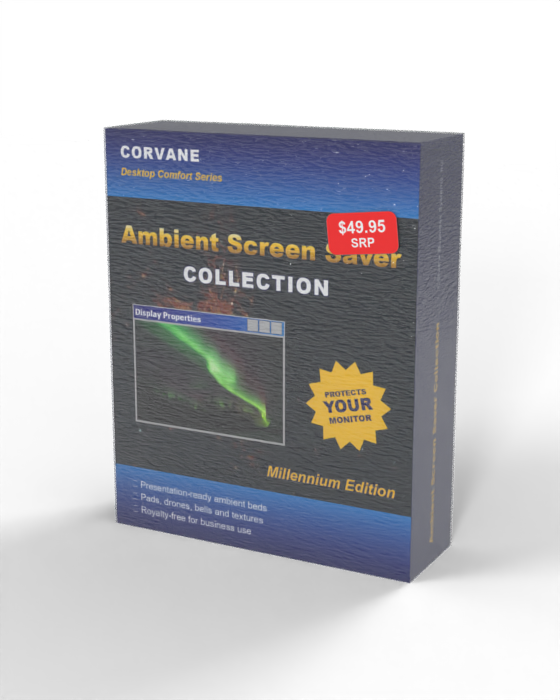
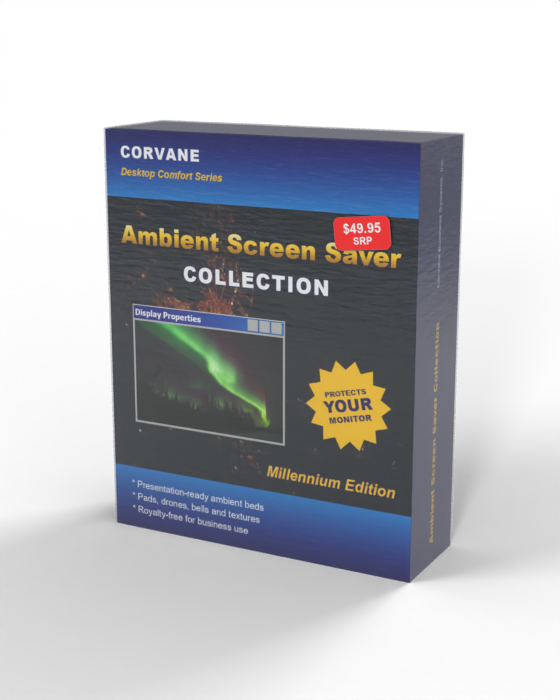
Sound packs: box and disc renders for all 18 packs; sticker in the shop's corner, renders cropped
Blender runs capped (-t 4, BLENDER_THREADS), --render-only and PACK_ONLY=box|disc|post for partial passes.

diff --git a/packages/basilisk-synth/library/packs/make_packs.py b/packages/basilisk-synth/library/packs/make_packs.py
@@ -197,13 +197,15 @@ def render_pack(p, opt):
                'sticker_pos': p['box'].get('sticker', {}).get('pos')}
         jp = os.path.join(build, 'job.json')
         json.dump(job, open(jp, 'w'))
-        r = subprocess.run([BLENDER, '-b', '--factory-startup', '-t', os.environ.get('BLENDER_THREADS', '4'), '-P', os.path.join(HERE, 'packlib', 'render_blender.py'), '--', jp],
+        r = subprocess.CompletedProcess([], 0) if os.environ.get('PACK_ONLY') == 'post' else subprocess.run([BLENDER, '-b', '--factory-startup', '-t', os.environ.get('BLENDER_THREADS', '4'), '-P', os.path.join(HERE, 'packlib', 'render_blender.py'), '--', jp],
                            capture_output=True, text=True)
-        if r.returncode or not os.path.exists(job['out_box']):
+        if r.returncode:
             print(r.stdout[-3000:], r.stderr[-3000:])
             raise SystemExit('blender failed for ' + pid)
         post = p['look'].get('render_post')
         for raw, name in ((job['out_box'], 'box.png'), (job['out_disc'], 'disc.png')):
+            if not os.path.exists(raw):
+                continue
             im = gfx.Image.open(raw).convert('RGBA')
             if post:   # period colours, alpha kept (shadow becomes a hard-edged, dithered grey)
                 a = im.getchannel('A')
@@ -211,6 +213,10 @@ def render_pack(p, opt):
                 bg.alpha_composite(im)
                 im = gfx.dither(bg.convert('RGB'), post, 'bayer4' if post == 'vga16' else 'fs').convert('RGB')
                 im.putalpha(a.point(lambda v: 255 if v >= 96 else 0))
+            bb = im.getchannel('A').point(lambda v: 255 if v > 24 else 0).getbbox()
+            if bb:   # crop to the object and its shadow, with a margin (no scaling)
+                mg = 16
+                im = im.crop((max(0, bb[0] - mg), max(0, bb[1] - mg), min(im.width, bb[2] + mg), min(im.height, bb[3] + mg)))
             im.save(os.path.join(rend, name), optimize=True)
         print('[%s] rendered' % pid, flush=True)
 

diff --git a/packages/basilisk-synth/library/packs/packlib/render_blender.py b/packages/basilisk-synth/library/packs/packlib/render_blender.py
@@ -283,9 +283,9 @@ def box_scene():
     # price sticker on the film, top left of the front
     fw = 120 * MM if t == 'jewel' else 112 * MM if t == 'mailer' else w
     fx0 = (w / 2 - fw - 1 * MM) if t == 'jewel' else -fw / 2
-    sp = job.get('sticker_pos') or [0.17, 0.08]
+    sp = job.get('sticker_pos') or [0.84, 0.045]   # the shop's corner, clear of the title
     sx, sz = fx0 + sp[0] * fw, h - sp[1] * (h if t != 'mailer' else 112 * MM) - (0 if t != 'mailer' else 15 * MM)
-    sticker((sx, -d / 2 * 1.03 - 0.6 * MM, sz), (40 * MM, 22 * MM), rot=-6)
+    sticker((sx, -d / 2 * 1.03 - 0.6 * MM, sz), (32 * MM, 17.6 * MM), rot=-6)
     floor()
     lights((0, 0, h / 2))
     tall = h > w
@@ -357,5 +357,7 @@ def disc_scene():
     render(job['out_disc'], 720, 560)
 
 
-box_scene()
-disc_scene()
+if os.environ.get('PACK_ONLY') != 'disc':
+    box_scene()
+if os.environ.get('PACK_ONLY') != 'box':
+    disc_scene()
